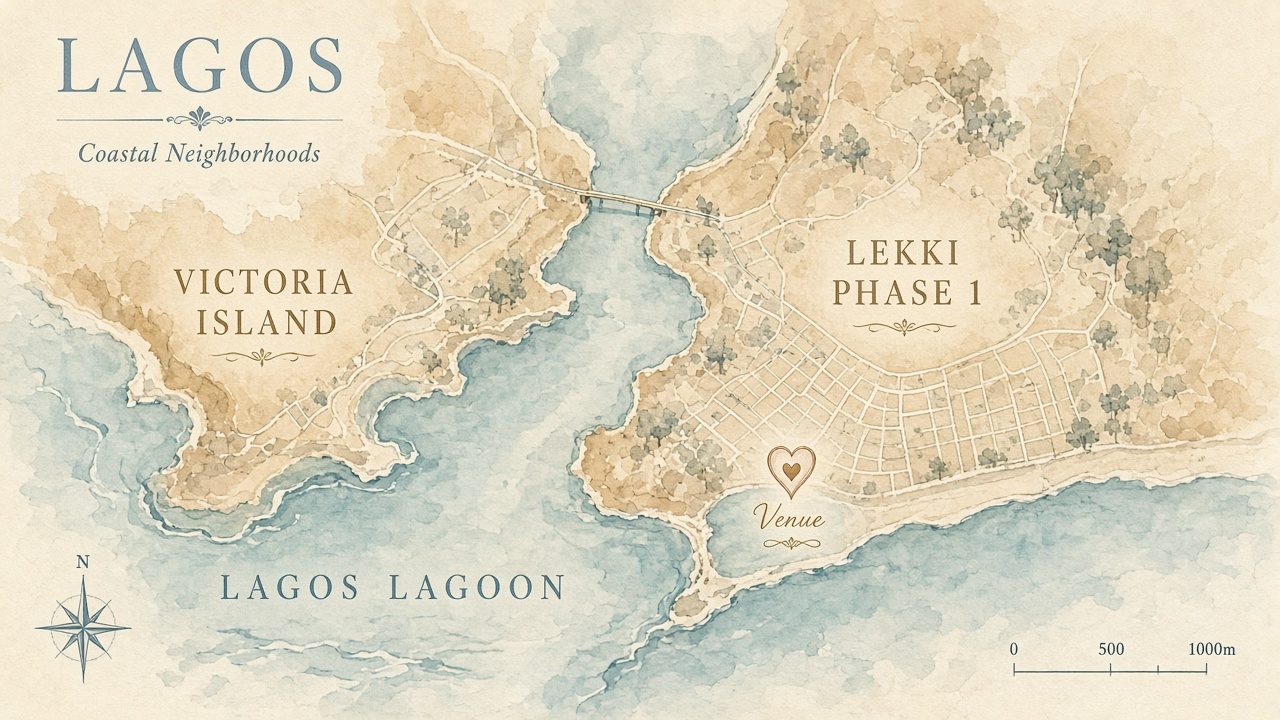
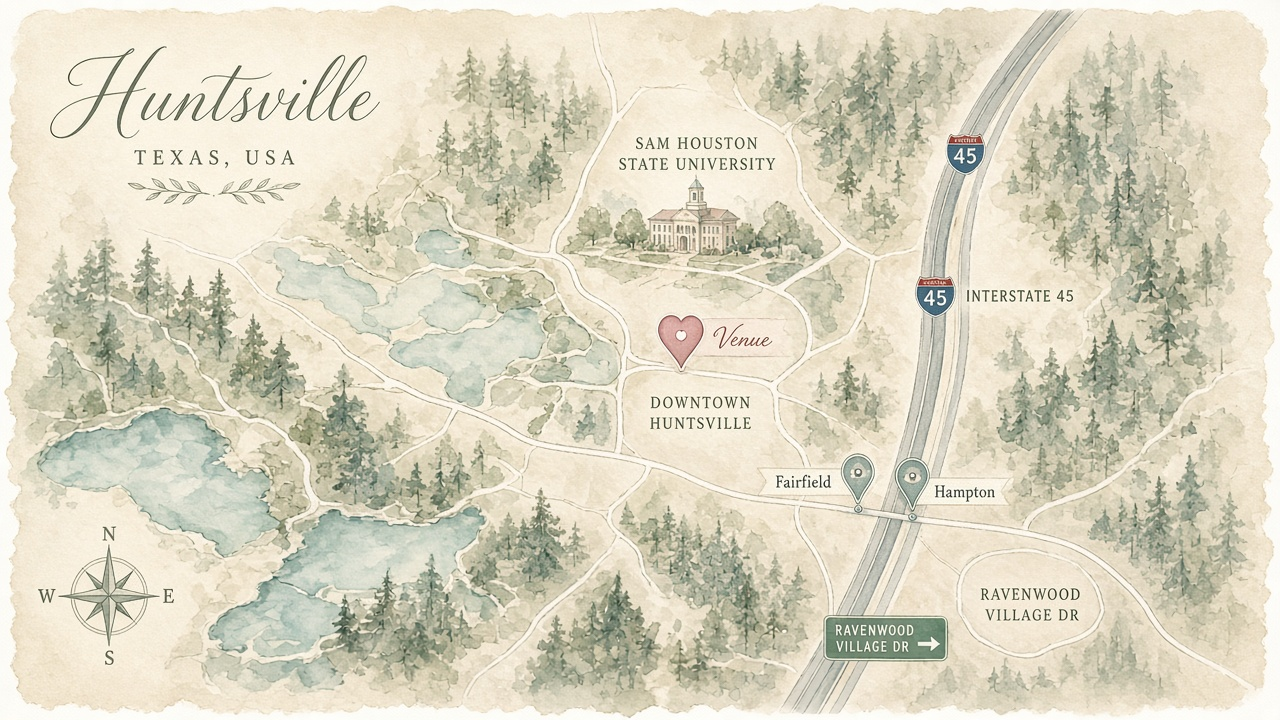
List Huntsville hotels with real photos and map links
Replace the Lagos stays with Fairfield Inn & Suites and Hampton Inn
on Ravenwood Village Drive, using property photos and links that open
Apple Maps or Google Maps.

diff --git a/src/app/where-to-stay/page.tsx b/src/app/where-to-stay/page.tsx
@@ -1,11 +1,12 @@
 import Image from "next/image";
 import type { Metadata } from "next";
-import { Heart, MapPin } from "lucide-react";
+import { MapPin } from "lucide-react";
 
 import { Countdown } from "@/components/countdown";
+import { MapLink } from "@/components/map-link";
 import { PageShell, StoryText } from "@/components/page-shell";
 import { PageTitle } from "@/components/page-title";
-import { hotels, mapsUrl, wedding } from "@/lib/site";
+import { hotels, wedding } from "@/lib/site";
 
 export const metadata: Metadata = {
   title: "Where to Stay",
@@ -17,36 +18,31 @@ export default function WhereToStayPage() {
       <PageTitle>Where to Stay</PageTitle>
 
       <StoryText>
-        We&apos;ve curated a list of hotels near the wedding venues for your
-        convenience. Let us know if you have any questions!
+        We&apos;ve picked two hotels in Huntsville, Texas, a short drive from
+        the wedding. They sit next to each other on Ravenwood Village Drive.
+        Let us know if you have any questions!
       </StoryText>
 
       <Countdown />
 
-      <div className="relative overflow-hidden rounded-[1.6rem] bg-[#d7e6ee]">
+      <div className="relative overflow-hidden rounded-[1.6rem] bg-[#efe6d6]">
         <Image
           src="/images/stay-map.jpg"
-          alt={`Map of ${wedding.venueArea} and nearby neighborhoods`}
+          alt={`Map of ${wedding.venueArea} with both hotels`}
           width={1600}
           height={900}
           className="h-auto w-full object-cover"
           priority
         />
 
-        <div className="absolute top-4 right-4 flex items-center gap-1.5 rounded-full bg-white/95 px-3 py-1.5 text-sm text-[#2a2a2a] shadow-md">
-          <Heart className="size-3.5 fill-[#6b3a45] text-[#6b3a45]" />
-          Venue
-        </div>
-
-        <a
-          href={mapsUrl(wedding.mapsQuery)}
-          target="_blank"
-          rel="noreferrer"
+        <MapLink
+          name={wedding.mapsName}
+          address={wedding.mapsAddress}
           className="absolute inset-x-4 bottom-4 flex h-12 items-center justify-center gap-2 rounded-full bg-white/95 text-[15px] font-medium text-[#1f1f1f] shadow-lg ring-1 ring-black/5 transition hover:bg-white"
         >
           <MapPin className="size-4" />
           Explore on Map
-        </a>
+        </MapLink>
       </div>
 
       <ul className="mt-8 space-y-5">
@@ -55,37 +51,30 @@ export default function WhereToStayPage() {
             key={hotel.name}
             className="overflow-hidden rounded-2xl border border-[#eee6de] bg-white shadow-[0_8px_30px_rgba(40,30,20,0.06)]"
           >
-            <div className="relative h-40">
+            <div className="relative h-48">
               <Image
                 src={hotel.image}
-                alt={hotel.name}
+                alt={`${hotel.name} in Huntsville, Texas`}
                 fill
                 sizes="(max-width: 640px) 100vw, 576px"
                 className="object-cover"
               />
-              {hotel.favorite ? (
-                <span className="absolute top-3 left-3 rounded-full bg-white/95 px-3 py-1 text-xs font-medium tracking-wide text-[#6b3a45] uppercase shadow-sm">
-                  Couple&apos;s Favorite
-                </span>
-              ) : null}
-              <span className="absolute right-3 bottom-3 rounded-full bg-[#2a2a2a]/90 px-3 py-1 text-sm text-white">
-                {hotel.price}
-              </span>
             </div>
             <div className="px-5 py-4">
               <p className="text-lg font-medium text-[#1f1f1f]">{hotel.name}</p>
-              <p className="mt-0.5 text-sm text-[#6b6560]">{hotel.area}</p>
+              <p className="mt-0.5 text-sm text-[#6b6560]">
+                {hotel.area}, Huntsville, TX
+              </p>
               <p className="font-serif mt-3 text-[1.05rem] leading-7 text-[#3a3a3a]">
                 {hotel.note}
               </p>
-              <a
-                href={mapsUrl(hotel.mapsQuery)}
-                target="_blank"
-                rel="noreferrer"
+              <MapLink
+                name={hotel.name}
+                address={hotel.mapsAddress}
                 className="mt-4 inline-flex text-sm font-medium text-[#6b3a45] underline-offset-4 hover:underline"
               >
-                View on map
-              </a>
+                View on Map
+              </MapLink>
             </div>
           </li>
         ))}

diff --git a/src/lib/site.ts b/src/lib/site.ts
@@ -11,11 +11,13 @@ export const weddingDateIso = "2026-10-10T16:00:00+01:00";
 export const wedding = {
   dateLabel: "Saturday, 10 October 2026",
   timeLabel: "4:00 in the afternoon",
-  city: "Lagos",
-  country: "Nigeria",
-  venueName: "Lekki Waterfront",
-  venueArea: "Lekki Phase 1",
-  mapsQuery: "Lekki Phase 1 Lagos Nigeria",
+  city: "Huntsville",
+  state: "Texas",
+  country: "USA",
+  venueName: "Huntsville",
+  venueArea: "Huntsville, TX",
+  mapsName: "Huntsville, TX",
+  mapsAddress: "Ravenwood Village Drive, Huntsville, TX 77340",
 } as const;
 
 export const navItems = [
@@ -27,31 +29,18 @@ export const navItems = [
 
 export const hotels = [
   {
-    name: "Lagos Oriental Hotel",
-    area: "Victoria Island",
-    price: "US$226",
-    note: "Closest to the welcome dinner, with lagoon views.",
-    favorite: true,
-    image: "/images/hotel-oriental.jpg",
-    mapsQuery: "Lagos Oriental Hotel Victoria Island",
+    name: "Fairfield Inn & Suites by Marriott",
+    area: "136 Ravenwood Village Drive",
+    note: "Free hot breakfast, an outdoor pool, and a short drive from downtown Huntsville.",
+    image: "/images/hotel-fairfield.jpg",
+    mapsAddress: "136 Ravenwood Village Drive, Huntsville, TX 77340",
   },
   {
-    name: "Federal Palace Hotel",
-    area: "Victoria Island",
-    price: "US$173",
-    note: "A classic waterfront stay, a short drive from both venues.",
-    favorite: false,
-    image: "/images/hotel-palace.jpg",
-    mapsQuery: "Federal Palace Hotel and Casino Lagos",
-  },
-  {
-    name: "Lekki Shores Suites",
-    area: "Lekki Phase 1",
-    price: "US$128",
-    note: "Quieter boutique rooms nearest the ceremony.",
-    favorite: false,
-    image: "/images/hotel-lekki.jpg",
-    mapsQuery: "Lekki Phase 1 hotels Lagos",
+    name: "Hampton Inn & Suites",
+    area: "120 Ravenwood Village Drive",
+    note: "Right next door on Ravenwood Village Drive, with free breakfast and an outdoor pool.",
+    image: "/images/hotel-hampton.jpg",
+    mapsAddress: "120 Ravenwood Village Drive, Huntsville, TX 77340",
   },
 ] as const;
 
@@ -144,6 +133,3 @@ export const ourStory = [
   },
 ] as const;
 
-export function mapsUrl(query: string) {
-  return `https://www.google.com/maps/search/?api=1&query=${encodeURIComponent(query)}`;
-}

diff --git a/src/components/map-link.tsx b/src/components/map-link.tsx
@@ -1,0 +1,45 @@
+"use client";
+
+import { useSyncExternalStore, type ReactNode } from "react";
+
+function googleMapsUrl(query: string) {
+  return `https://www.google.com/maps/search/?api=1&query=${encodeURIComponent(query)}`;
+}
+
+function appleMapsUrl(name: string, address: string) {
+  const params = new URLSearchParams({
+    q: name,
+    address,
+  });
+  return `https://maps.apple.com/?${params.toString()}`;
+}
+
+function subscribe() {
+  return () => {};
+}
+
+function isAppleDevice() {
+  return /iPhone|iPad|iPod/.test(navigator.userAgent);
+}
+
+export function MapLink({
+  name,
+  address,
+  className,
+  children,
+}: {
+  name: string;
+  address: string;
+  className?: string;
+  children: ReactNode;
+}) {
+  const query = `${name}, ${address}`;
+  const apple = useSyncExternalStore(subscribe, isAppleDevice, () => false);
+  const href = apple ? appleMapsUrl(name, address) : googleMapsUrl(query);
+
+  return (
+    <a href={href} target="_blank" rel="noreferrer" className={className}>
+      {children}
+    </a>
+  );
+}

diff --git a/src/app/registry/page.tsx b/src/app/registry/page.tsx
@@ -27,7 +27,7 @@ export default function RegistryPage() {
 
       <div className="mt-10">
         <StoryText>
-          Your presence in Lagos is the gift we want most. If you would still
+          Your presence in Huntsville is the gift we want most. If you would still
           like to celebrate with something extra, we have a short list of wishes
           for the honeymoon and the home we are making together.
         </StoryText>

diff --git a/src/app/layout.tsx b/src/app/layout.tsx
@@ -41,7 +41,7 @@ export default function RootLayout({ children }: LayoutProps<"/">) {
         <SiteHeader />
         <div className="flex flex-1 flex-col">{children}</div>
         <footer className="bg-white px-6 pb-10 text-center text-[11px] font-medium tracking-[0.22em] text-[#8a8178] uppercase">
-          Lagos · 10 October 2026
+          Huntsville, TX · 10 October 2026
         </footer>
       </body>
     </html>

diff --git a/README.md b/README.md
@@ -5,11 +5,11 @@ A wedding website for Zikora and David, designed in the style of a floral WithJo
 There are four pages:
 
 - **Our Story** — how they met, in their own words
-- **Where to Stay** — Lagos hotel notes, a countdown, and a map
+- **Where to Stay** — two hotels in Huntsville, Texas, a countdown, and a map
 - **Registry** — a short wish list (preview only; no payments)
 - **Contact Us** — a note to the couple
 
-Wedding date used in the countdown: **Saturday, 10 October 2026**, in Lagos.
+Wedding date used in the countdown: **Saturday, 10 October 2026**, in Huntsville, Texas.
 
 ## Run locally
 
